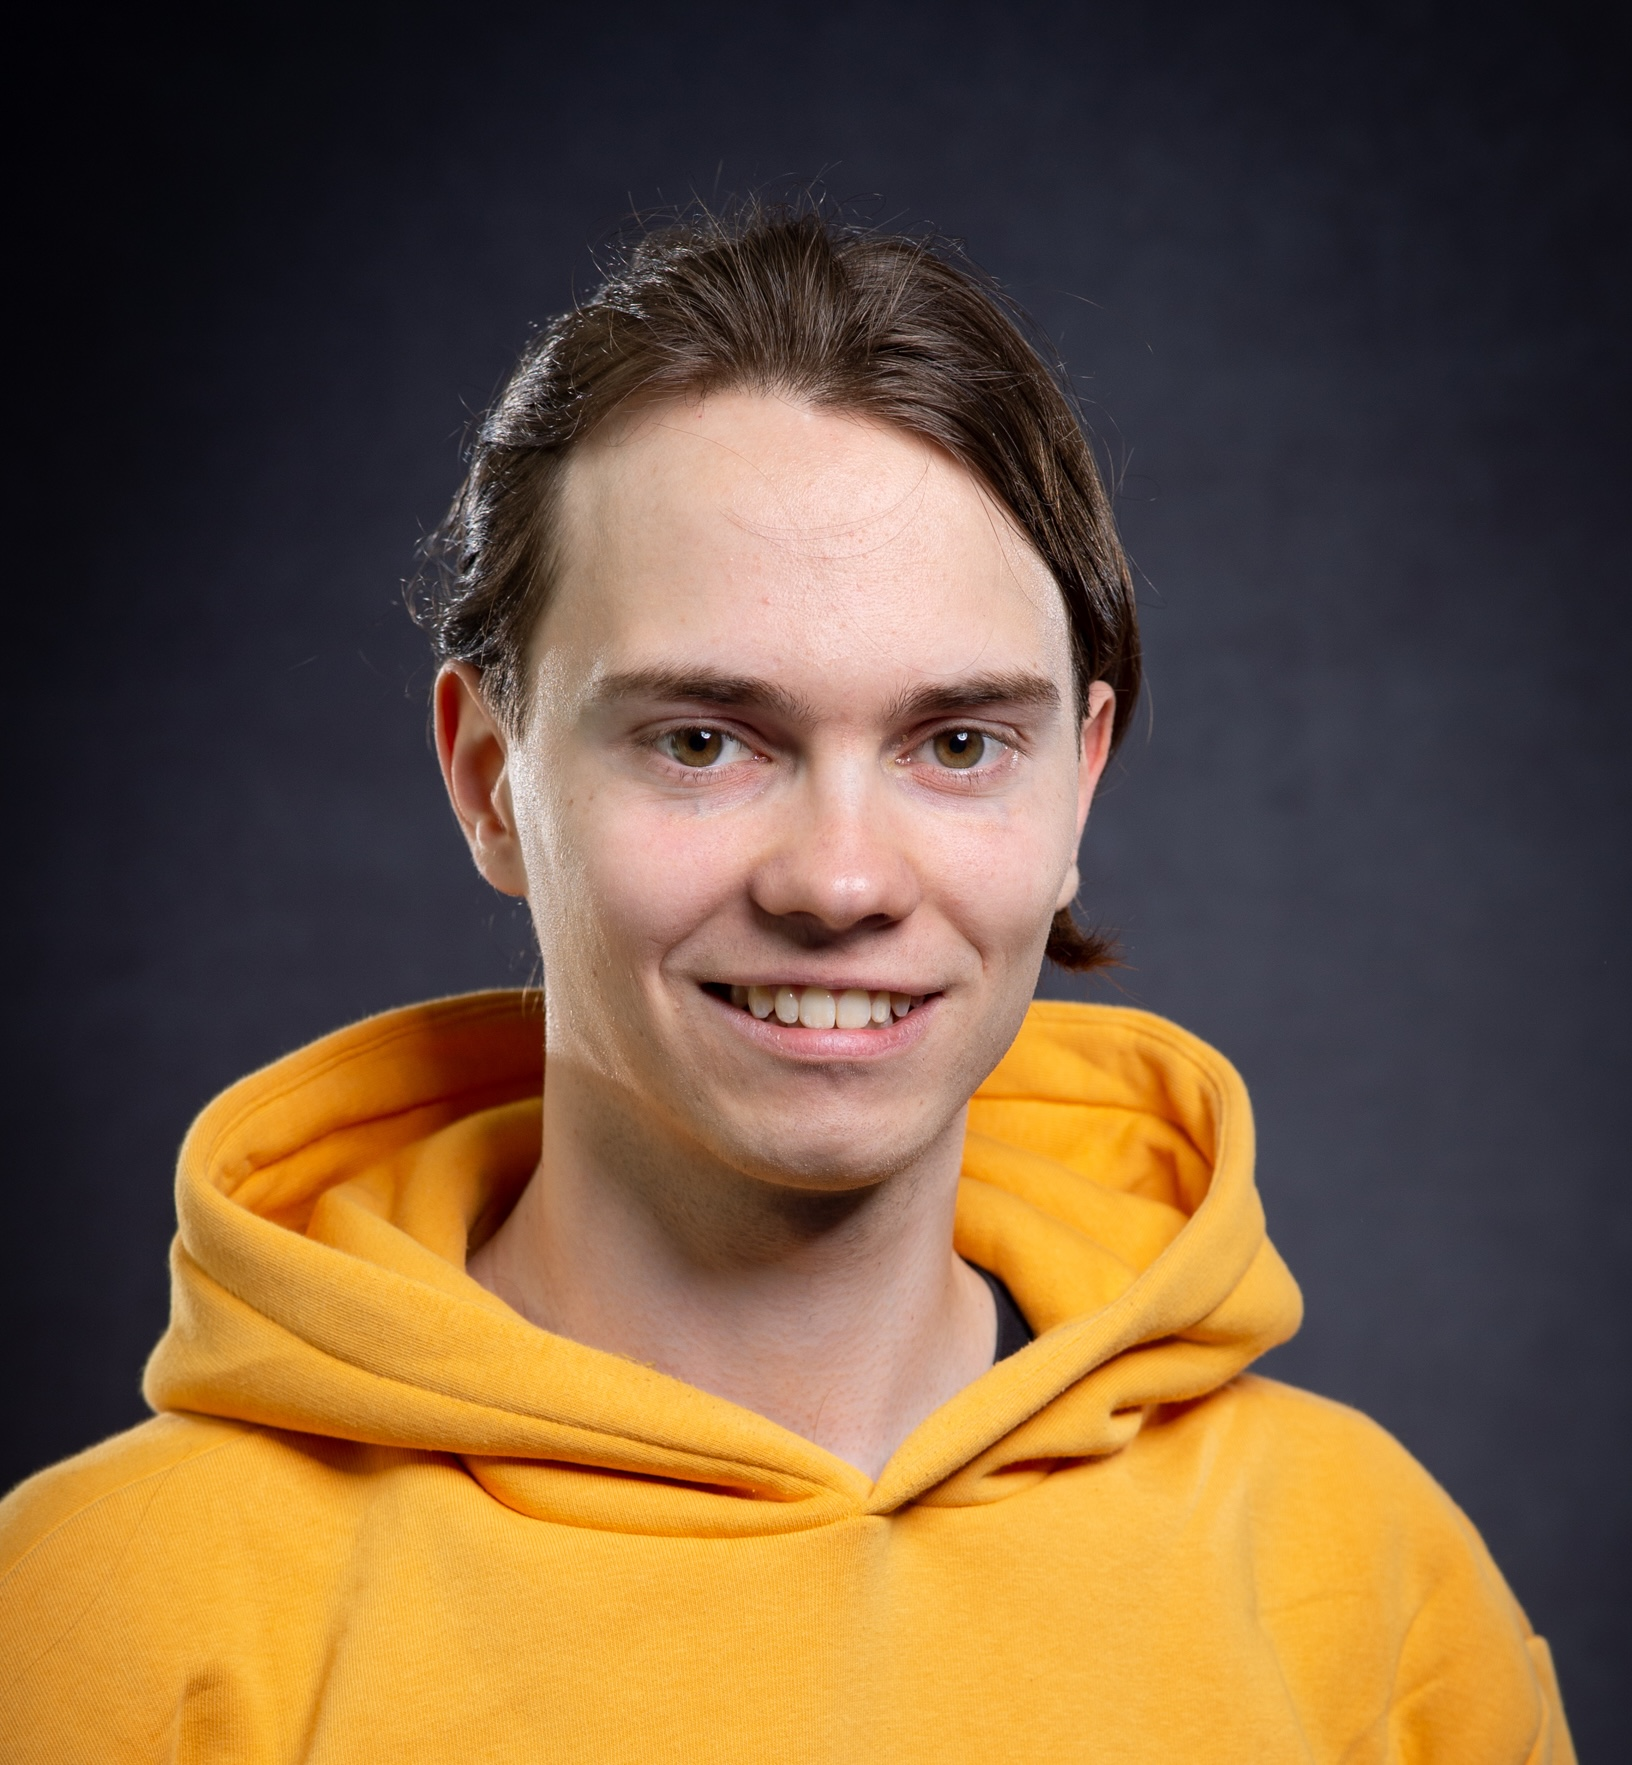
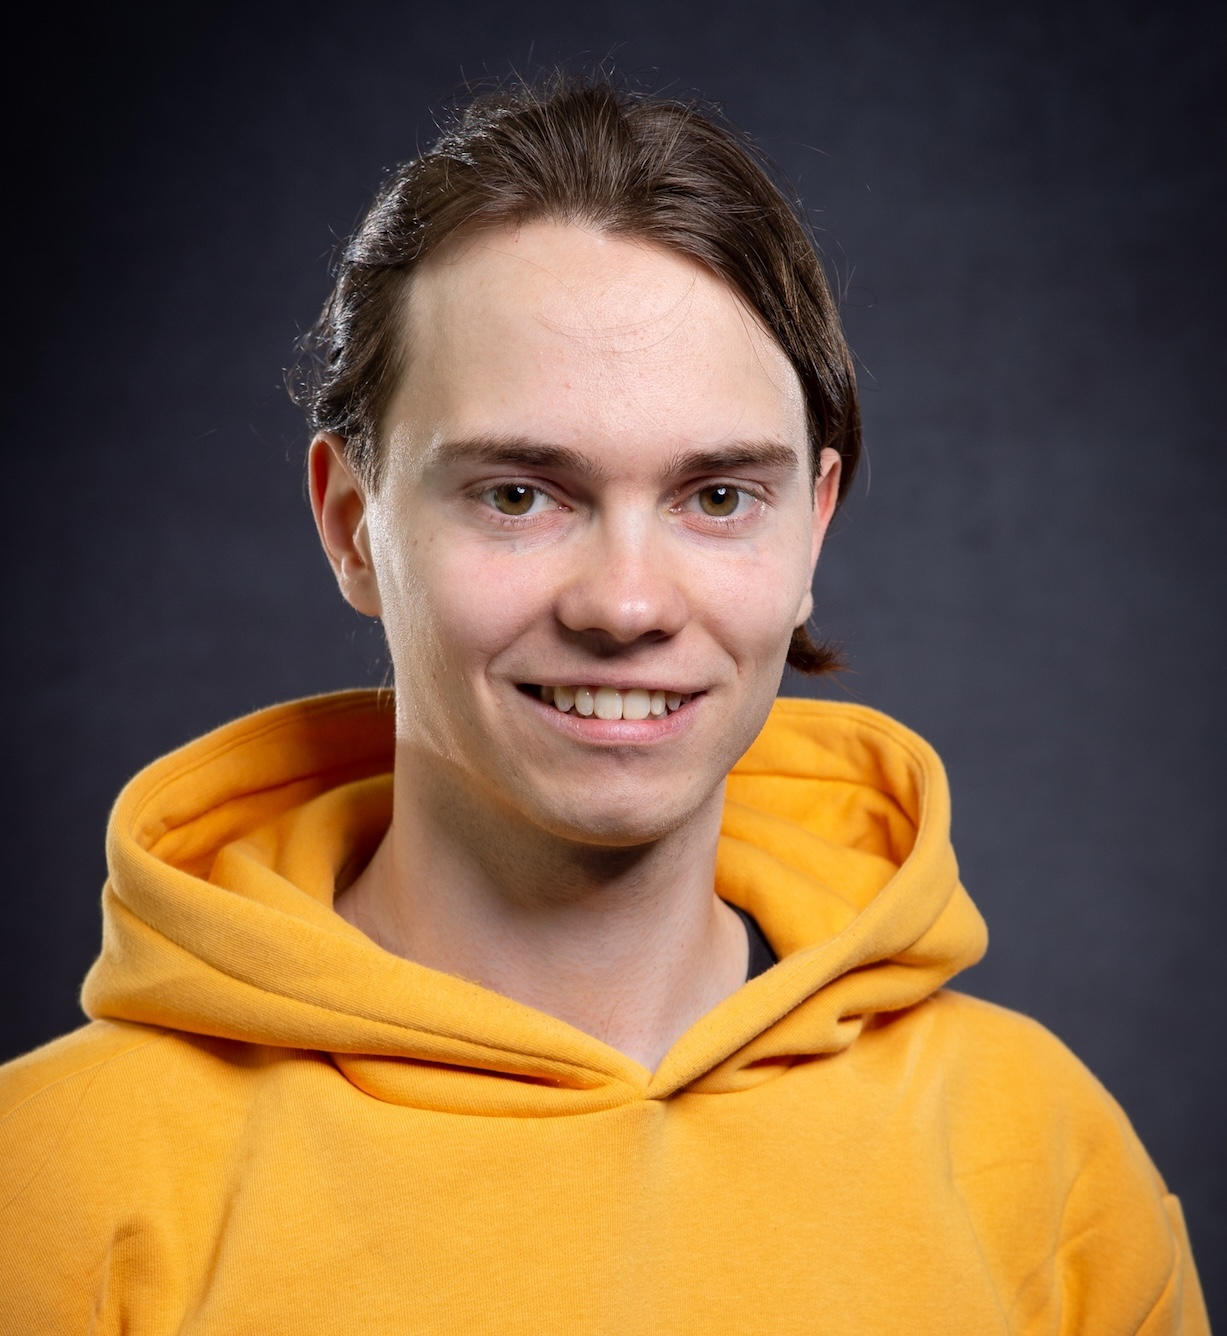
update people picts

diff --git a/_people/ahmedomar.md b/_people/ahmedomar.md
@@ -3,7 +3,7 @@ layout: page
 name: "Ahmed Omar"
 role: Research student (MSc, Utrecht University)
 category: current
-img: assets/img/5.jpg
+img: assets/img/ahmed-omar.jpg
 redirect: https://nl.linkedin.com/in/ahmedomaro
 importance: 9
 ---
